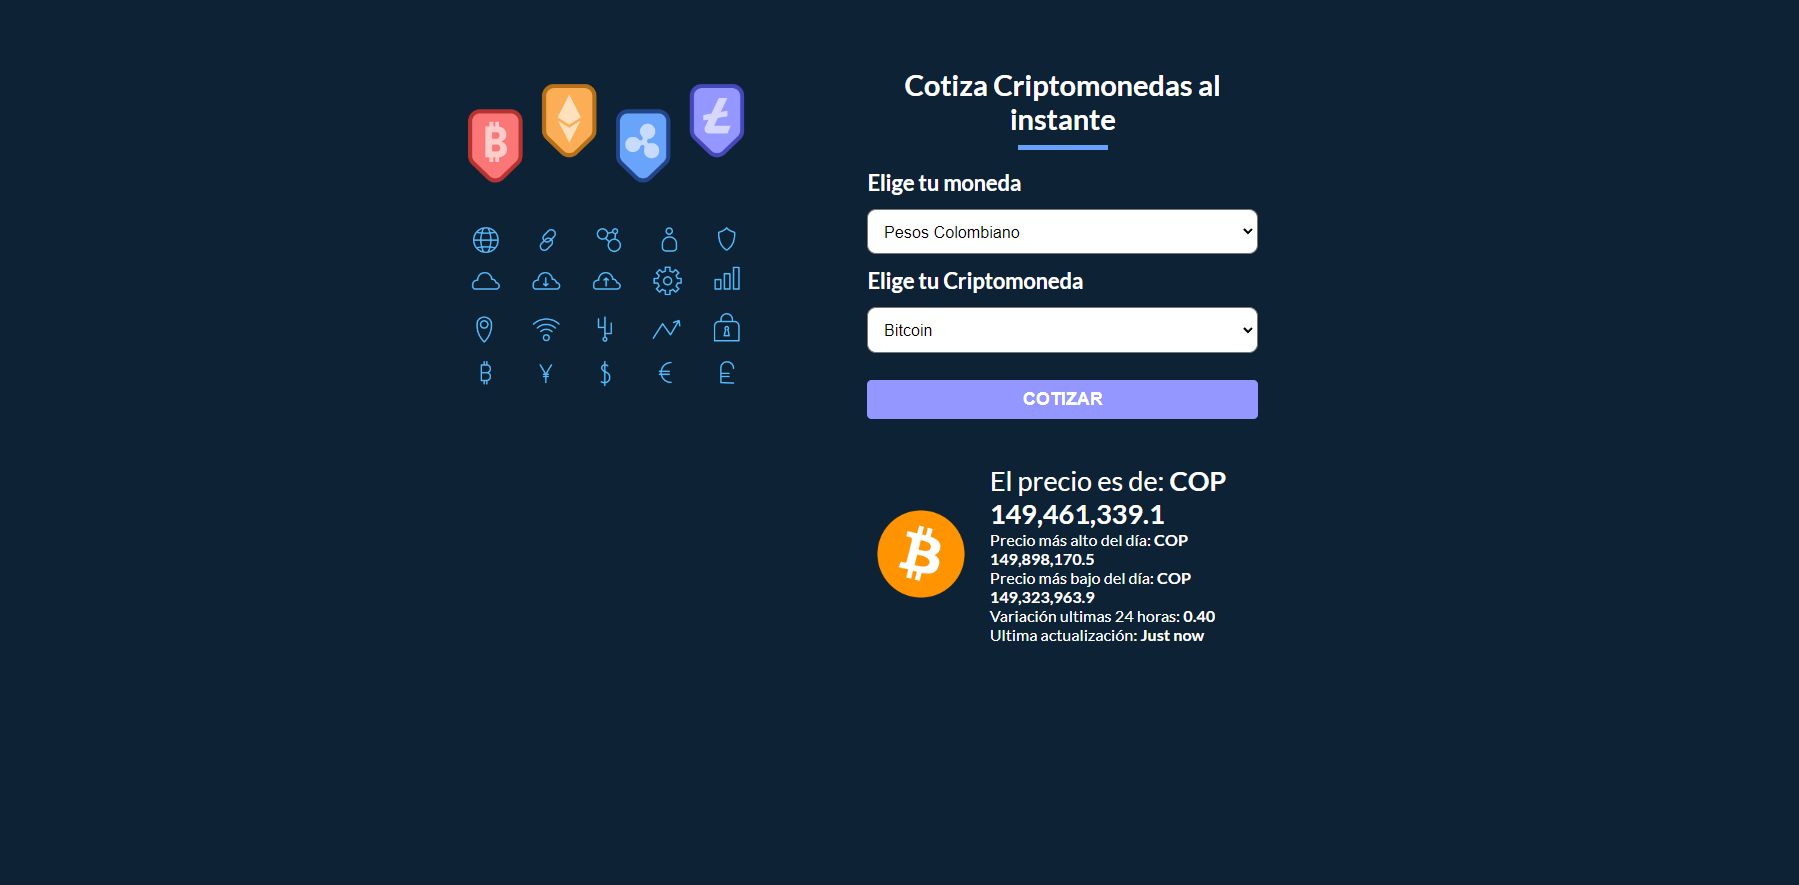
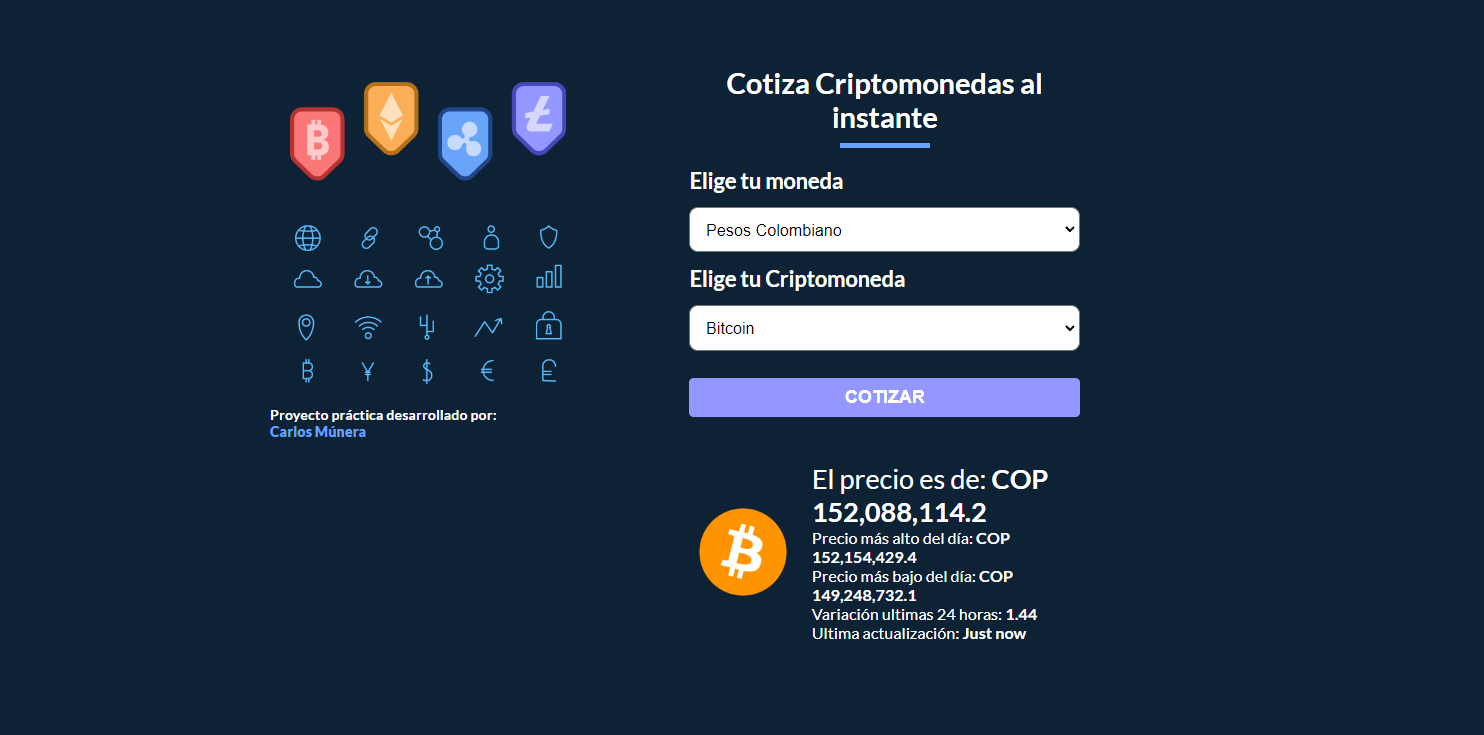
Actualizado acerca..

diff --git a/src/App.jsx b/src/App.jsx
@@ -25,6 +25,22 @@ const Imagen = styled.img`
   }
 `;
 
+const Acerca = styled.p`
+  font-family: 'Lato', sans-serif;
+  font-weight: bold;
+  color: #FFF;
+
+  span{
+    display: block;
+    color:#66A2FE;  
+    font-weight: 900;
+  }
+
+  @media (max-width: 992px){
+    display: none;
+  }
+`;
+
 const Heading = styled.h1`
   font-family: "Lato", sans-serif;
   color: #fff;
@@ -75,7 +91,13 @@ function App() {
 
   return (
     <Contenedor>
-      <Imagen src={ImagenCripto} alt="imagenes criptomonedas" />
+      <div>
+        <Imagen src={ImagenCripto} alt="imagenes criptomonedas" />
+        <Acerca>Proyecto práctica desarrollado por: <span>Carlos Múnera</span></Acerca>
+        
+      </div>
+      
+
       <div>
         <Heading>Cotiza Criptomonedas al instante</Heading>
         <Formulario
